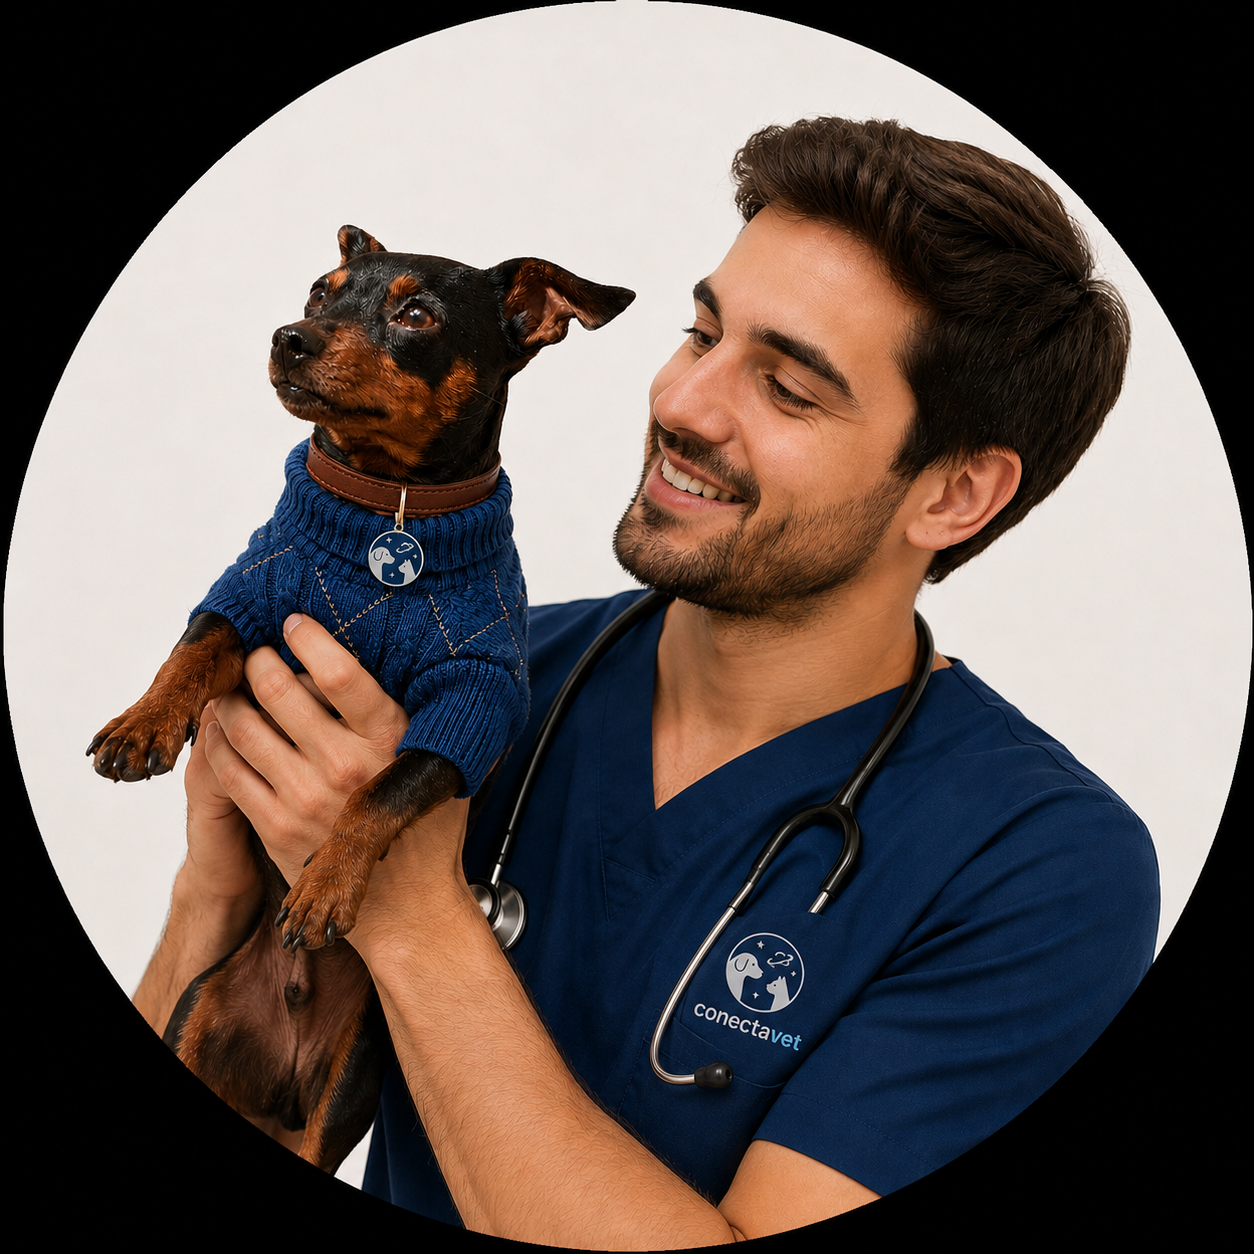
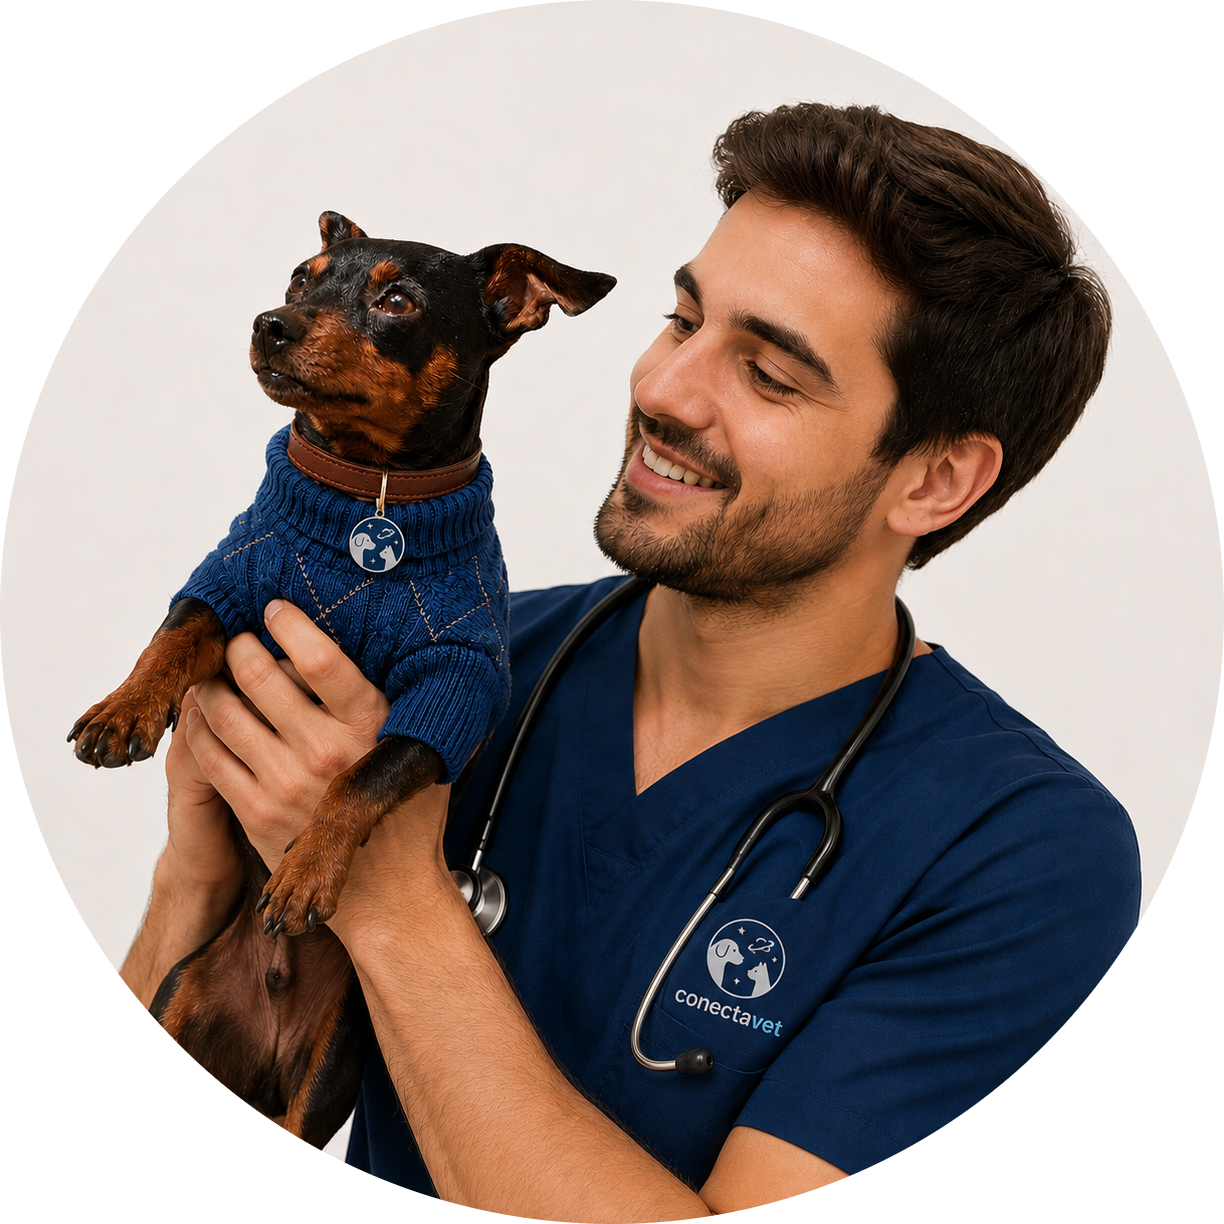
feat: change bg-elevated color

diff --git a/app/layouts/subscriptionAd.vue b/app/layouts/subscriptionAd.vue
@@ -37,7 +37,27 @@
 
       <!-- CHIP -->
       <div class="text-white">
-        <UCard />
+        <UCard 
+          :ui="{body: 'bg-foreground'}"
+          >
+          <div class="flex items-center gap-4">
+            <!-- ICON -->
+            <div class="shrink-0">
+              <UAvatar src="/cute_dog_doctor.png" size="3xl"/>
+            </div>
+
+            <!-- CONTENT -->
+            <div class="min-w-0">
+              <p class="text-2xl font-semibold leading-tight text-primary">
+                Atendimento com médicos veterinários <span class="text-accent">qualificados</span>
+              </p>
+
+              <p class="pt-3 text-primary/80 leading-snug">
+                Entre em contato conosco através do WhatsApp
+              </p>
+            </div>
+          </div>
+        </UCard>
       </div>
     </div>
 

diff --git a/app/assets/css/main.css b/app/assets/css/main.css
@@ -11,6 +11,8 @@
 /*APP DEFAULT COLORS STYLING*/
 @layer base {
   html, body {
+    --ui-bg-elevated: var(--color-accent);
+    
     background-color: var(--color-foreground);
     color: var(--color-primary);
   }
